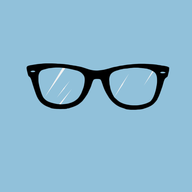
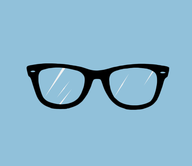
config

Changed region(s): [[0.125, 0.3012, 0.9062, 0.6627]]

diff --git a/_includes/social-icons.html b/_includes/social-icons.html
@@ -9,16 +9,16 @@
       <i class="fa-brands fa-linkedin"></i>
     </a>
   </li>
-  <li>
+  <!-- <li>
     <a rel="me" href="https://{{site.mastodon.instance}}/@{{site.mastodon.user}}" target="_blank" aria-label="Mastodon">
       <i class="fa-brands fa-mastodon"></i>
     </a>
-  </li>
-  <li>
+  </li> -->
+  <!-- <li>
     <a href="https://instagram.com/{{site.instagram}}" target="_blank" aria-label="Instagram">
       <i class="fa-brands fa-square-instagram"></i></i>
     </a>
-  </li>
+  </li> -->
   <li>
     <a href="mailto:{{site.email}}" target="_blank" aria-label="Email">
       <i class="fa-solid fa-envelope"></i>
